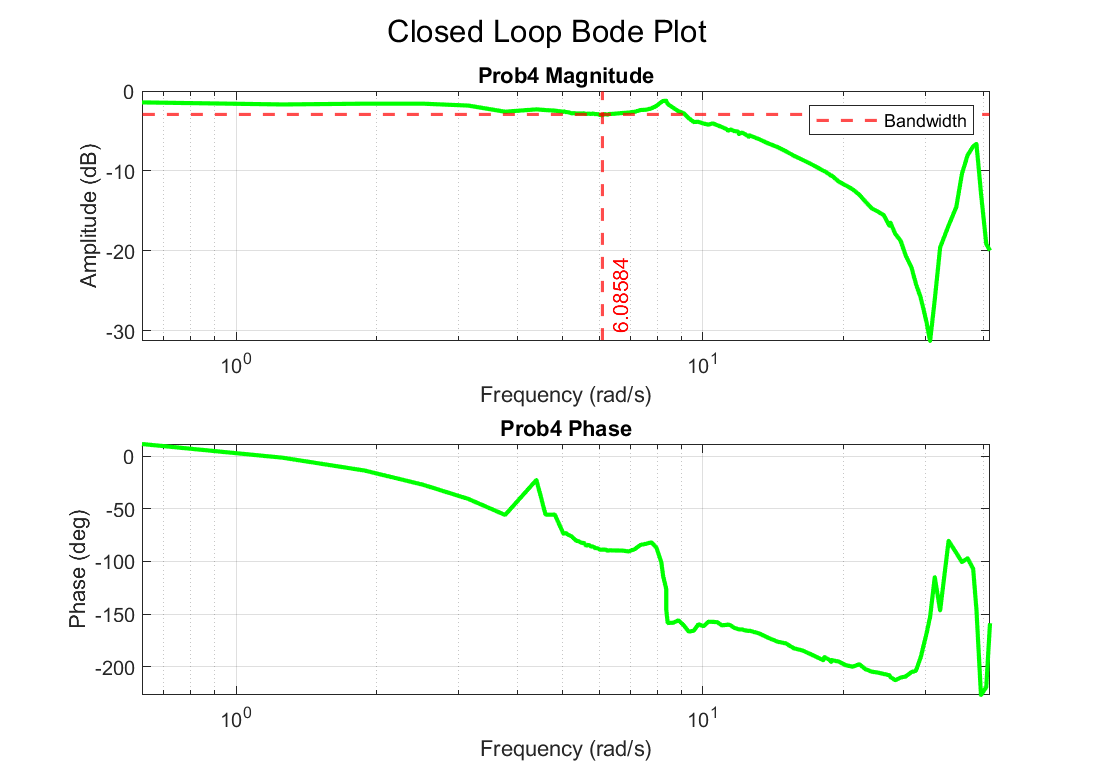
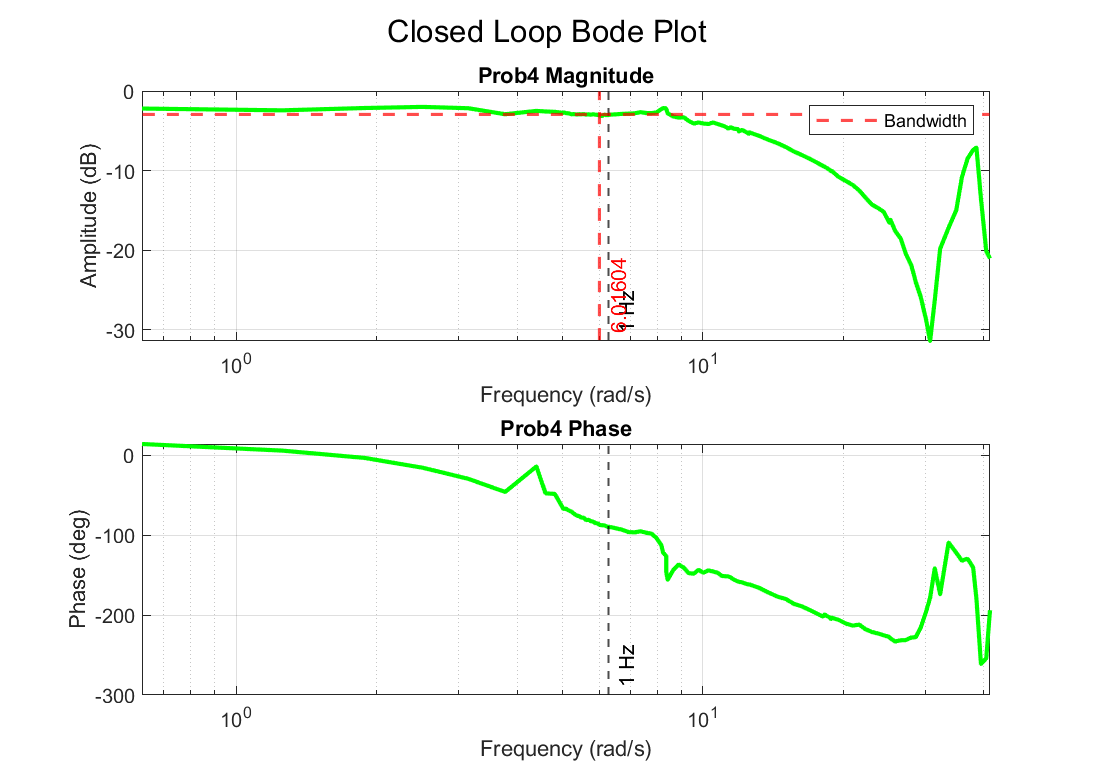
Finished 4

diff --git a/carson.m b/carson.m
@@ -66,23 +66,60 @@ disp('--- Problem 3 ---')
 % type = 4: Integral Gain
 % type = 5: Derivative Gain
 
-K = 25;
+% K = 25;
+% params = {
+%     %[2, 0.4, 0.015, omega_ar1, omega_ar1]; % anti-resonant notch
+%     %[2, 0.035, 0.6, omega_r1, omega_r1]; % resonant notch
+%     [2, 2*0.035, 0.5*0.015, omega_r1, omega_ar1]; % pole cancelation
+%     [1, 1, 10]; % lead compensator
+%     %[1, 1, 10]; % lead compensator
+%     %[1, 0.3, 3]; % lag compensator
+% };
+K = 44;
 params = {
-    %[2, 0.4, 0.015, omega_ar1, omega_ar1]; % anti-resonant notch
-    %[2, 0.035, 0.6, omega_r1, omega_r1]; % resonant notch
-    [2, 2*0.035, 0.5*0.015, omega_r1, omega_ar1]; % pole cancelation
-    [1, 1, 10]; % lead compensator
-    %[1, 1, 10]; % lead compensator
-    %[1, 0.3, 3]; % lag compensator
+    [2, 5, 0.02, omega_ar1, omega_ar1]; % anti-resonant notch
+    [2, 0.05, 1.1, omega_r1, omega_r1]; % resonant notch
+    % [2, 2*0.035, 0.5*0.015, omega_r1, omega_ar1]; % pole cancelation
+    % [1, 7, 10]; % lead compensator
+    % [1, 1, 5]; % lead compensator
+    %[1, 8, 6]; % lag compensator
+    % [1, 40, 2]; % lag compensator
+    % [6, 2*pi]; % low pass filter
 };
 
 % Calculate Gain and Phase Margin 
 plot_compensators = false;
-[Lg, C] = loopgain(G, s, params, K, plot_compensators);
+[Lg, C, fig] = loopgain(G, s, params, K, plot_compensators);
 
-[GM,PM] = margin(Lg); 
-GM = 20*log10(GM);
-Margin = [GM,PM]';
+% Plot the bode plot
+[mag_g, phase_g, wout_g] = bode(G, freq_exp);
+mag_g = squeeze(mag_g);
+phase_g = squeeze(phase_g);
+
+if plot_compensators
+    figure(fig)
+    fig.Position = [100, 100, 1000, 800];
+    subplot(2,1,1)
+    semilogx(wout_g, db(mag_g), 'k--', 'linewidth', 2, 'DisplayName', 'Empirical');
+    hold on;
+    title('Magnitude');
+    xlabel('Frequency (rad/s)');
+    ylabel('Amplitude (dB)');
+    xlim([freq_exp(1), freq_exp(end)]);
+    grid on;
+    legend('show');
+
+    % Plot the phase plot
+    subplot(2,1,2)
+    semilogx(wout_g, phase_g, 'k--', 'linewidth', 2, 'DisplayName', 'Empirical');
+    hold on;
+    title('Phase');
+    xlabel('Frequency (rad/s)');
+    ylabel('Phase (deg)');
+    xlim([freq_exp(1), freq_exp(end)]);
+    grid on;
+    legend('show');
+end
 
 % Determine Closed Loop Poles and Zeros
 clSys = feedback(Lg, 1);  
@@ -96,11 +133,6 @@ for i  = 1:length(w)
     Lg_eval(i) = evalfr(Lg, w(i));
     Ts_eval(i) = 1/abs(1-Lg_eval(i)); 
 end
-
-% Display the margins and bandwidth 
-disp(['Gain Margin: ', num2str(GM), 'dB']);
-disp(['Phase Margin: ', num2str(PM), 'deg']);
-disp(['Closed-loop bandwidth: ', num2str(bw), ' rad/s']);
 
 CL_bode_plot(Lg, "figs/Problem3/", "Prob3");
 
@@ -118,44 +150,78 @@ disp('--- Problem 4 ---')
 % type = 4: Integral Gain
 % type = 5: Derivative Gain
 
-K = 35;
+% figs = [figure, figure];
+
+% a_min = 0.1;
+% a_max = 2;
+% for a = linspace(a_min, a_max, 10)
+
+%     transparency = a/a_max;
+
+%     mid_freq = 15;
+
+%     K = 18;
+%     params = {
+%         [2, 5, 0.02, omega_ar1, omega_ar1]; % anti-resonant notch
+%         [2, 0.05, 1.1, omega_r1, omega_r1]; % resonant notch
+%         [1, 0.9, mid_freq]; % lead compensator
+%         [1, 400, mid_freq]; % lag compensator
+%     };
+
+%     [~, C, ~] = loopgain(G, s, params, K, plot_compensators);
+
+%     [c_mag, c_phase, c_wout] = bode(C, freq_exp);
+%     c_mag = squeeze(c_mag);
+%     c_phase = squeeze(c_phase);
+
+%     Lg_exp.lg_mag = c_mag.*mag_exp;
+%     Lg_exp.lg_phase = c_phase + rad2deg(phase_exp);
+%     Lg_exp.lg_wout = c_wout;
+
+%     Lg_exp.cl_mag = Lg_exp.lg_mag./(1+Lg_exp.lg_mag);
+%     Lg_exp.cl_phase = Lg_exp.lg_phase - rad2deg(1./(1+Lg_exp.lg_mag));
+%     Lg_exp.cl_wout = Lg_exp.lg_wout;
+
+%     plot_lg(figs, Lg_exp, transparency, false);
+% end
+
+% MONEY %
+K = 21;
 params = {
     [2, 5, 0.02, omega_ar1, omega_ar1]; % anti-resonant notch
-    [2, 0.1, 1.1, omega_r1, omega_r1]; % resonant notch
-    % [2, 2*0.035, 0.5*0.015, omega_r1, omega_ar1]; % pole cancelation
-    [1, 7, 10]; % lead compensator
-    [1, 1, 5]; % lead compensator
-    %[1, 8, 6]; % lag compensator
-    [1, 40, 2]; % lag compensator
-    % [6, 2*pi]; % low pass filter
+    [2, 0.05, 1.1, omega_r1, omega_r1]; % resonant notch
+    [1, 1, 3]; % lead compensator
+    [1, 400, 10]; % lag compensator
 };
 
 % Calculate Gain and Phase Margin 
-plot_compensators = true;
+plot_compensators = false;
 [~, C, fig] = loopgain(G, s, params, K, plot_compensators);
 
-figure(fig)
-fig.Position = [100, 100, 1000, 800];
-subplot(2,1,1)
-semilogx(freq_exp, db(mag_exp), 'k--', 'linewidth', 2, 'DisplayName', 'Empirical');
-hold on;
-title('Magnitude');
-xlabel('Frequency (rad/s)');
-ylabel('Amplitude (dB)');
-xlim([freq_exp(1), freq_exp(end)]);
-grid on;
-legend('show');
+if plot_compensators
+    figure(fig)
+    fig.Position = [100, 100, 1000, 800];
+    subplot(2,1,1)
+    semilogx(freq_exp, db(mag_exp), 'k--', 'linewidth', 2, 'DisplayName', 'Empirical');
+    hold on;
+    title('Magnitude');
+    xlabel('Frequency (rad/s)');
+    ylabel('Amplitude (dB)');
+    xlim([freq_exp(1), freq_exp(end)]);
+    grid on;
+    legend('show');
 
-% Plot the phase plot
-subplot(2,1,2)
-semilogx(freq_exp, rad2deg(phase_exp), 'k--', 'linewidth', 2, 'DisplayName', 'Empirical');
-hold on;
-title('Phase');
-xlabel('Frequency (rad/s)');
-ylabel('Phase (deg)');
-xlim([freq_exp(1), freq_exp(end)]);
-grid on;
-legend('show');
+    % Plot the phase plot
+    subplot(2,1,2)
+    semilogx(freq_exp, rad2deg(phase_exp), 'k--', 'linewidth', 2, 'DisplayName', 'Empirical');
+    hold on;
+    title('Phase');
+    xlabel('Frequency (rad/s)');
+    ylabel('Phase (deg)');
+    xlim([freq_exp(1), freq_exp(end)]);
+    grid on;
+    legend('show');
+end
 
 [c_mag, c_phase, c_wout] = bode(C, freq_exp);
 c_mag = squeeze(c_mag);
@@ -190,7 +256,7 @@ hold on;
 plot(out.theta.Time, out.theta.Data);
 title('Step Response');
 xlabel('Time (s)');
-ylabel('Theta');
+ylabel('Angle (deg)');
 grid on;
 saveas(gcf, 'figs/Problem5/step_response.png');
 
@@ -210,7 +276,7 @@ for i = 1:length(w_in_set)
     plot(out(i).theta.Time, out(i).theta.Data);
     title(sprintf('Sine Response - w_in = %g rad/s', w_in_set(i)));
     xlabel('Time (s)');
-    ylabel('Theta');
+    ylabel('Angle (deg)');
     grid on;
 end
 saveas(gcf, 'figs/Problem5/sine_response.png');
@@ -218,7 +284,7 @@ saveas(gcf, 'figs/Problem5/sine_response.png');
 figure;
 for i = 1:length(w_in_set)
     subplot(length(w_in_set), 1, i);
-    plot(out(i).u.Time, out(i).u.Data, 'r--');
+    plot(out(i).u.Time, out(i).u.Data, 'r');
     hold on;
     title(sprintf('Sine Response - w_in = %g rad/s', w_in_set(i)));
     xlabel('Time (s)');
@@ -229,3 +295,115 @@ saveas(gcf, 'figs/Problem5/u_sine_response.png');
 
 %%%%% Problem 6 %%%%%
 % prob6(C, s)
+
+function plot_lg(figs, Lg_exp, transparency, first_plot)
+
+    mag_lg = Lg_exp.lg_mag;
+    phase_lg = Lg_exp.lg_phase;
+    wout_lg = Lg_exp.lg_wout;
+
+    mag_cl = Lg_exp.cl_mag;
+    phase_cl = Lg_exp.cl_phase;
+    wout_cl = Lg_exp.cl_wout;
+
+   
+    % Calculate the closed loop bandwidth
+    % Calculate the closed loop bandwidth for the experimental data
+    closed_loop_bandwidth = wout_cl(find(db(mag_cl) <= -3, 1, 'first')); %Bandwidth is the frequency where the magnitude is -3 dB
+
+    % Calculate the open loop stability margins
+    % Phase margin
+    gain_crossover_ind = find(diff(sign(db(mag_lg))) < 0 | diff(sign(db(mag_lg))) == 2);
+
+    % Gain Margin
+    phase_crossover_ind = find(diff(sign(phase_lg + 180)) < 0 | diff(sign(phase_lg + 180)) == 2);
+
+    %% Loop Gain Bode Plot
+    % Plot the model bode plot
+    figure(figs(1));
+    set(gcf, 'Position', [100, 100, 700, 500]); % Resize figure window
+    subplot(2,1,1)
+    semilogx(wout_lg, db(mag_lg), 'b', 'linewidth', 2, 'color', [transparency, 0, 0]);
+    hold on;
+    if(~isempty(phase_crossover_ind))
+        for i = 1:length(phase_crossover_ind)
+            if abs(db(mag_lg(phase_crossover_ind(i)))) > 10
+                line([wout_lg(phase_crossover_ind(i)), wout_lg(phase_crossover_ind(i))], [0, db(mag_lg(phase_crossover_ind(i)))], 'Color', 'g', 'LineWidth', 1.5);
+            else
+                line([wout_lg(phase_crossover_ind(i)), wout_lg(phase_crossover_ind(i))], [0, db(mag_lg(phase_crossover_ind(i)))], 'Color', 'r', 'LineWidth', 1.5);
+            end
+        end
+    end
+    yline(0, 'color', 'r', 'linestyle', ':', 'linewidth', 1.5)
+    title('Magnitude');
+    xlabel('Frequency (rad/s)');
+    ylabel('Amplitude (dB)');
+    xlim([wout_lg(1), wout_lg(end)]);
+    grid on;
+
+    % Plot the phase plot
+    subplot(2,1,2)
+    semilogx(wout_lg, phase_lg, 'linewidth', 2, 'color', [transparency, 0, 0]);
+    hold on;
+    for i = 1:length(gain_crossover_ind)
+        % Plot green if good phase margin, otherwise red
+        if phase_lg(gain_crossover_ind(i)) >= -140
+            good_phase = line([wout_lg(gain_crossover_ind(i)), wout_lg(gain_crossover_ind(i))], [-180, phase_lg(gain_crossover_ind(i))], 'Color', 'g', 'LineWidth', 1.5);
+        else
+            bad_phase = line([wout_lg(gain_crossover_ind(i)), wout_lg(gain_crossover_ind(i))], [-180, phase_lg(gain_crossover_ind(i))], 'Color', 'r', 'LineWidth', 1.5);
+        end
+    end
+    yline(-180, 'color', 'r', 'linestyle', ':', 'linewidth', 1.5)
+    yline(-140, 'color', 'g', 'linestyle', ':', 'linewidth', 1.5)
+    title('Phase');
+    xlabel('Frequency (rad/s)');
+    ylabel('Phase (deg)');
+    xlim([wout_lg(1), wout_lg(end)]);
+    sgtitle('Loop Gain Bode Plot')
+    grid on;
+
+    % Add legend
+    try
+        legend([good_phase, bad_phase], 'Good Phase Margin', 'Bad Phase Margin', 'location' ,'best');
+    catch
+        try 
+            legend([good_phase], 'Good Phase Margin', 'location' ,'best');
+        catch
+            try
+                legend([bad_phase], 'Bad Phase Margin', 'location' ,'best');
+            catch
+                x = 1;
+            end
+        end
+    end
+
+
+    %% Closed Loop Bode Plot
+    figure(figs(2));
+    set(gcf, 'Position', [100, 100, 700, 500]); % Resize figure window
+    subplot(2,1,1)
+    semilogx(wout_cl, db(mag_cl), 'color', [transparency, 0, 0], 'linewidth', 2);
+    hold on;
+    xline(2*pi, 'k--', 'LineWidth', 1, 'DisplayName', '1 Hz', 'Label', '1 Hz', 'LabelVerticalAlignment', 'bottom'); % Add line at 1 Hz with label
+    bandwidth_plot = xline(closed_loop_bandwidth, 'linewidth', 1.5, 'color', 'r', 'linestyle', '--', 'label', closed_loop_bandwidth, 'LabelVerticalAlignment', 'bottom');
+    yline(-3, 'linewidth', 1.5, 'color', 'r', 'linestyle', '--')
+    title('Magnitude');
+    xlabel('Frequency (rad/s)');
+    ylabel('Amplitude (dB)');
+    xlim([wout_cl(1), wout_cl(end)]);
+    legend([bandwidth_plot], 'Bandwidth');
+    grid on;
+
+    % Plot the phase plot
+    subplot(2,1,2)
+    semilogx(wout_cl, phase_cl, 'color', [transparency, 0, 0], 'linewidth', 2);
+    hold on;
+    xline(2*pi, 'k--', 'LineWidth', 1, 'DisplayName', '1 Hz', 'Label', '1 Hz', 'LabelVerticalAlignment', 'bottom'); % Add line at 1 Hz with label
+    % xline(2*pi, 'linewidth', 1.5, 'color', 'r', 'linestyle', '--')
+    title('Closed Loop Bode Plot');
+    xlabel('Frequency (rad/s)');
+    ylabel('Phase (deg)');
+    xlim([wout_cl(1), wout_cl(end)]);
+    sgtitle('Closed Loop Bode Plot')
+    grid on;
+end

diff --git a/CL_bode_plot.m b/CL_bode_plot.m
@@ -36,17 +36,17 @@ function CL_bode_plot(Lg, save_location, prob_name)
 
     % Report crossover frequencies and margins
     if ~isempty(gain_crossover_ind)
-        idx = gain_crossover_ind(1);
+        idx = gain_crossover_ind(1); % Report based on the first crossing
         current_pm = 180 + phase_lg(idx);
-        fprintf('Phase Margin: %.2f deg\n', wout_lg(idx), current_pm);
+        fprintf('Phase Margin: %.2f deg (at %.3f rad/s)\n', current_pm, wout_lg(idx)); 
     else
         fprintf('No Gain Crossover Frequency found.\n');
     end
     
     if ~isempty(phase_crossover_ind)
-        idx = phase_crossover_ind(1);
+        idx = phase_crossover_ind(1); % Report based on the first crossing
         current_gm = -db(mag_lg(idx)); % GM in dB
-        fprintf('Gain Margin: %.2f dB\n', wout_lg(idx), current_gm);
+        fprintf('Gain Margin: %.2f dB (at %.3f rad/s)\n', current_gm, wout_lg(idx)); 
     else
         fprintf('No Phase Crossover Frequency found (Gain Margin is potentially Infinite).\n');
     end
@@ -59,6 +59,7 @@ function CL_bode_plot(Lg, save_location, prob_name)
     subplot(2,1,1)
     semilogx(wout_lg, db(mag_lg), 'b', 'linewidth', 2);
     hold on;
+    xline(2*pi, 'k--', 'LineWidth', 1, 'DisplayName', '1 Hz', 'Label', '1 Hz', 'LabelVerticalAlignment', 'bottom'); % Add line at 1 Hz with label
     yline(-10, 'color', 'g', 'linestyle', ':', 'linewidth', 1.5)
     if(~isempty(phase_crossover_ind))
         for i = 1:length(phase_crossover_ind)
@@ -104,6 +105,7 @@ function CL_bode_plot(Lg, save_location, prob_name)
     subplot(2,1,2)
     semilogx(wout_lg, phase_lg, 'linewidth', 2);
     hold on;
+    xline(2*pi, 'k--', 'LineWidth', 1, 'DisplayName', '1 Hz', 'Label', '1 Hz', 'LabelVerticalAlignment', 'bottom'); % Add line at 1 Hz with label
     for i = 1:length(gain_crossover_ind)
         % Plot green if good phase margin, otherwise red
         if phase_lg(gain_crossover_ind(i)) >= -140
@@ -155,6 +157,7 @@ function CL_bode_plot(Lg, save_location, prob_name)
     subplot(2,1,1)
     semilogx(wout_cl, db(mag_cl), 'color', 'g', 'linewidth', 2);
     hold on;
+    xline(2*pi, 'k--', 'LineWidth', 1, 'DisplayName', '1 Hz', 'Label', '1 Hz', 'LabelVerticalAlignment', 'bottom'); % Add line at 1 Hz with label
     bandwidth_plot = xline(closed_loop_bandwidth, 'linewidth', 1.5, 'color', 'r', 'linestyle', '--', 'label', closed_loop_bandwidth, 'LabelVerticalAlignment', 'bottom');
     yline(-3, 'linewidth', 1.5, 'color', 'r', 'linestyle', '--')
     title(prob_name + ' Magnitude');
@@ -168,6 +171,7 @@ function CL_bode_plot(Lg, save_location, prob_name)
     subplot(2,1,2)
     semilogx(wout_cl, phase_cl, 'color', 'g', 'linewidth', 2);
     hold on;
+    xline(2*pi, 'k--', 'LineWidth', 1, 'DisplayName', '1 Hz', 'Label', '1 Hz', 'LabelVerticalAlignment', 'bottom'); % Add line at 1 Hz with label
     % xline(2*pi, 'linewidth', 1.5, 'color', 'r', 'linestyle', '--')
     title(prob_name + ' Phase');
     xlabel('Frequency (rad/s)');

diff --git a/loopgain.m b/loopgain.m
@@ -8,6 +8,8 @@ function [Lg, C, plt_fig] = loopgain(G,s, params, K, plot_flag)
     if plot_flag
         plt_fig = figure();
         title('Compensators Bode Plot');
+    else
+        plt_fig = [];
     end
 
     for i = 1:length(C_set)
